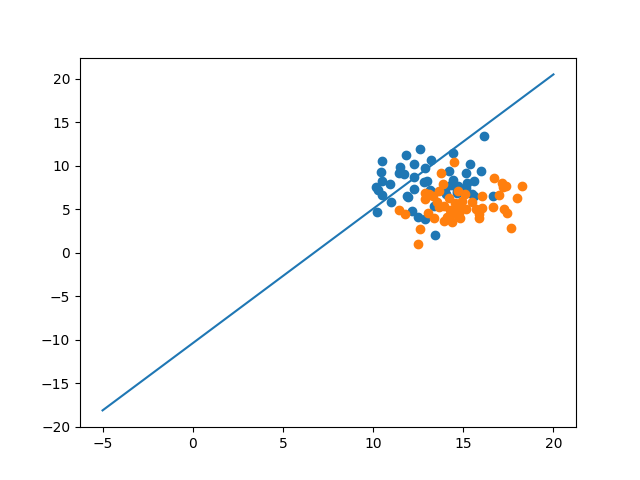
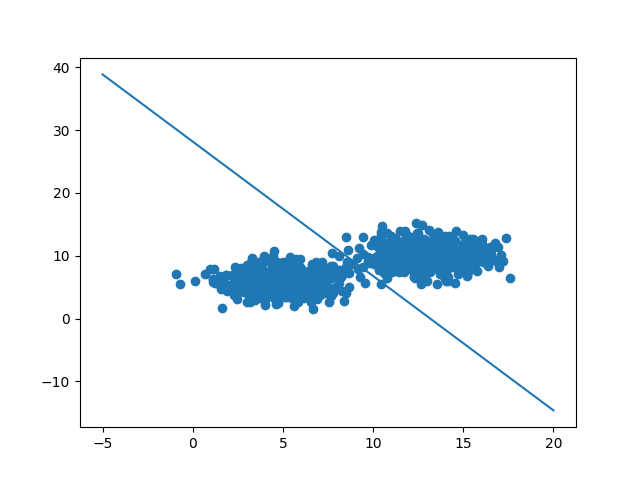
afgdf

diff --git a/SVM.py b/SVM.py
@@ -37,39 +37,31 @@ class SVM:
             for idx, V in enumerate(X):
                 # Use numpy.insert() to add the value at the front (position 0)
                 V = np.insert(V, 0, [1])
-                # 1 x1 x2
-                #print(V)
+
+        
                 condition = y[idx] * (np.dot(self.w,np.transpose(V)))
                 #condition just says whether the classification matches label; if match, con =1; if not, con =-1
-                if condition < 1:
+
+                slack = np.dot(self.w, V) / 
                     # y[1] * V[(1 + p) x 1]
-
                     
-                    theta * X
-                    ---------------  * theta = slack
-                    || theta || ^ 2
-                    slack = sqrt(sum((x - np.dot(theta,x)) ^ 2)))
+                    # theta * X
+                    # ---------------  * theta = distance vector
+                    # || theta || ^ 2
+                    # slack = || distance vector|| = theta * x
+                    #                                ----------     +/-   1
+                    #                                || theta ||
 
-
-                    1 - y (theta * x) - || slack ||
-
-                    #self.w = self.w - self.learning_rate * (hinge_loss_gradient)
+                    # 1 - y (theta * x) - || slack ||
+                                ^
+                                |
+                                |
+                                |
+                    <--------------------------------------->
+                    hinge_loss_gradient = y[idx] * V
                     self.w = self.w + np.multiply(self.learning_rate, hinge_loss_gradient)
-                    #self.b = self.b + self.learning_rate * y[idx]
-
 
         self.b = self.w[0]
-
-         # Magic numberr working for b           
-        #self.b = 23*(-1 * self.w[1])
-
-        #[theta1 theta2] [x y]
-        #theta1*x + theta2*y = 0
-
-        #[theta0 theta1 theta2] [1 x y]
-        
-        #theta0 + theta1 * x + theta2 * y = 0
-        #y = -(theta1/theta2) * x - theta0/theta2
 
 
     def accuracy(self, y_true, y_pred):

diff --git a/fake_data_testing.py b/fake_data_testing.py
@@ -9,11 +9,11 @@ from sklearn.model_selection import train_test_split
 
 
 ##################
-n_pts = 50
+n_pts = 1000
 np.random.seed()
 Xa = np.array([np.random.normal(13, 1.75, n_pts),
               np.random.normal(10, 1.75, n_pts)]).T
-Xb = np.array([np.random.normal(15, 1.75, n_pts),
+Xb = np.array([np.random.normal(5, 1.75, n_pts),
               np.random.normal(6, 1.75, n_pts)]).T
 
 X = np.vstack((Xa, Xb))
@@ -22,16 +22,16 @@ negative_ones = np.full((1, n_pts), -1)
 positive_ones = np.full((1, n_pts), 1)
 Y = np.append(negative_ones, positive_ones)
  
-
+X_train, X_test, y_train, y_test = train_test_split(X, Y, test_size=0.5, random_state=123, shuffle=True)
 #Class 1 X and Y values
 
-Class1 = [X[:n_pts,0], X[:n_pts,1]]
+Class1 = [X_test[:n_pts,0], X_test[:n_pts,1]]
 plt.scatter(Class1[0], Class1[1])
 #plt.scatter(X[:n_pts,0], X[:n_pts,1])
 
 #CLass 2 X and Y values
 
-Class2 = [X[n_pts:,0], X[n_pts:,1]]
+Class2 = [X_test[n_pts:,0], X_test[n_pts:,1]]
 plt.scatter(Class2[0], Class2[1])
 
 print("SDSDSDDS")
@@ -43,10 +43,10 @@ print("SDSDSDDS")
 #Class1[0] Class2[0]
 svm = SVM.SVM(learning_rate=0.01, epochs=6000)
 print("REACHED THIS FAR1")
-svm.train(X,Y)
+svm.train(X_train,y_train)
 print("REACHED THIS FAR2")
-y_pred = svm.predict(X)
-print(f"accuracy = {svm.accuracy(Y, y_pred)}")
+y_pred = svm.predict(X_test)
+print(f"accuracy = {svm.accuracy(y_test, y_pred)}")
 
 
 
